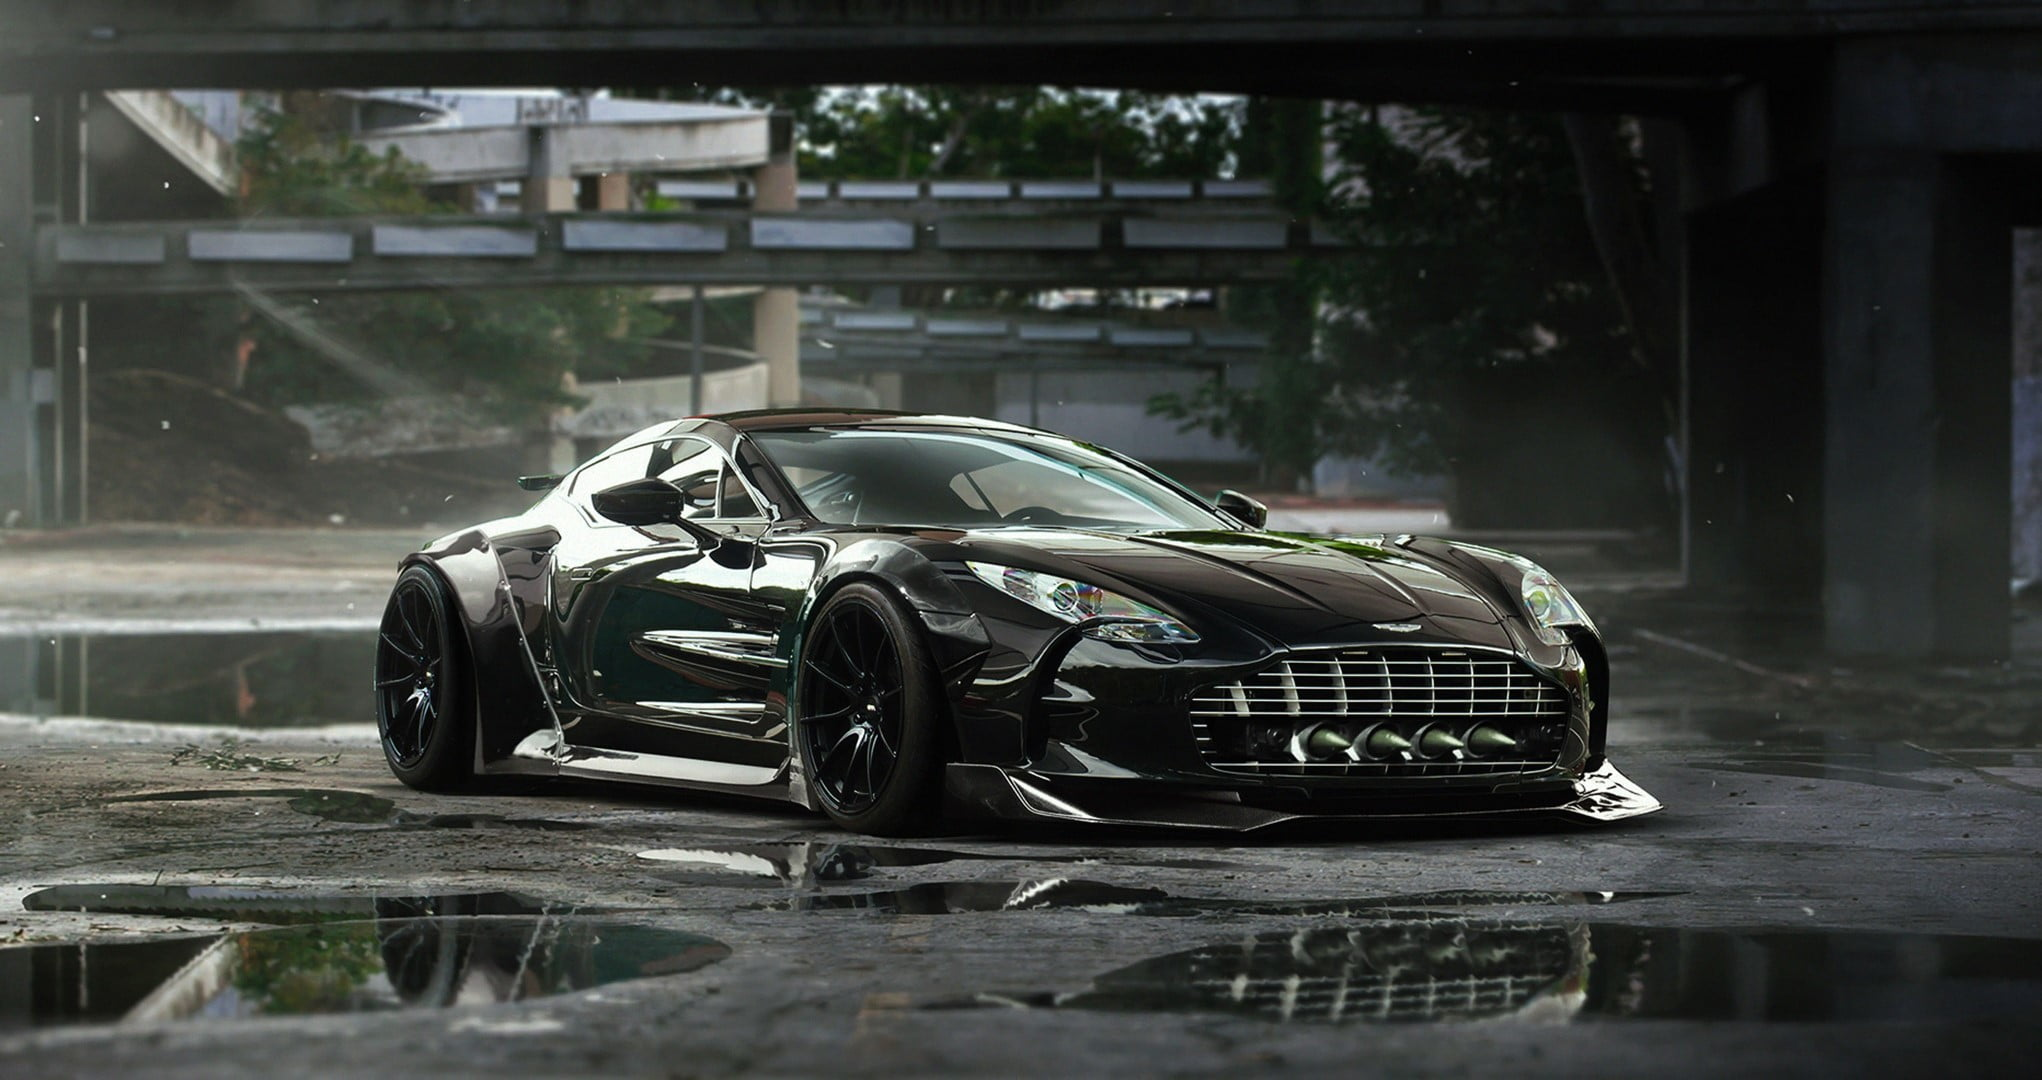
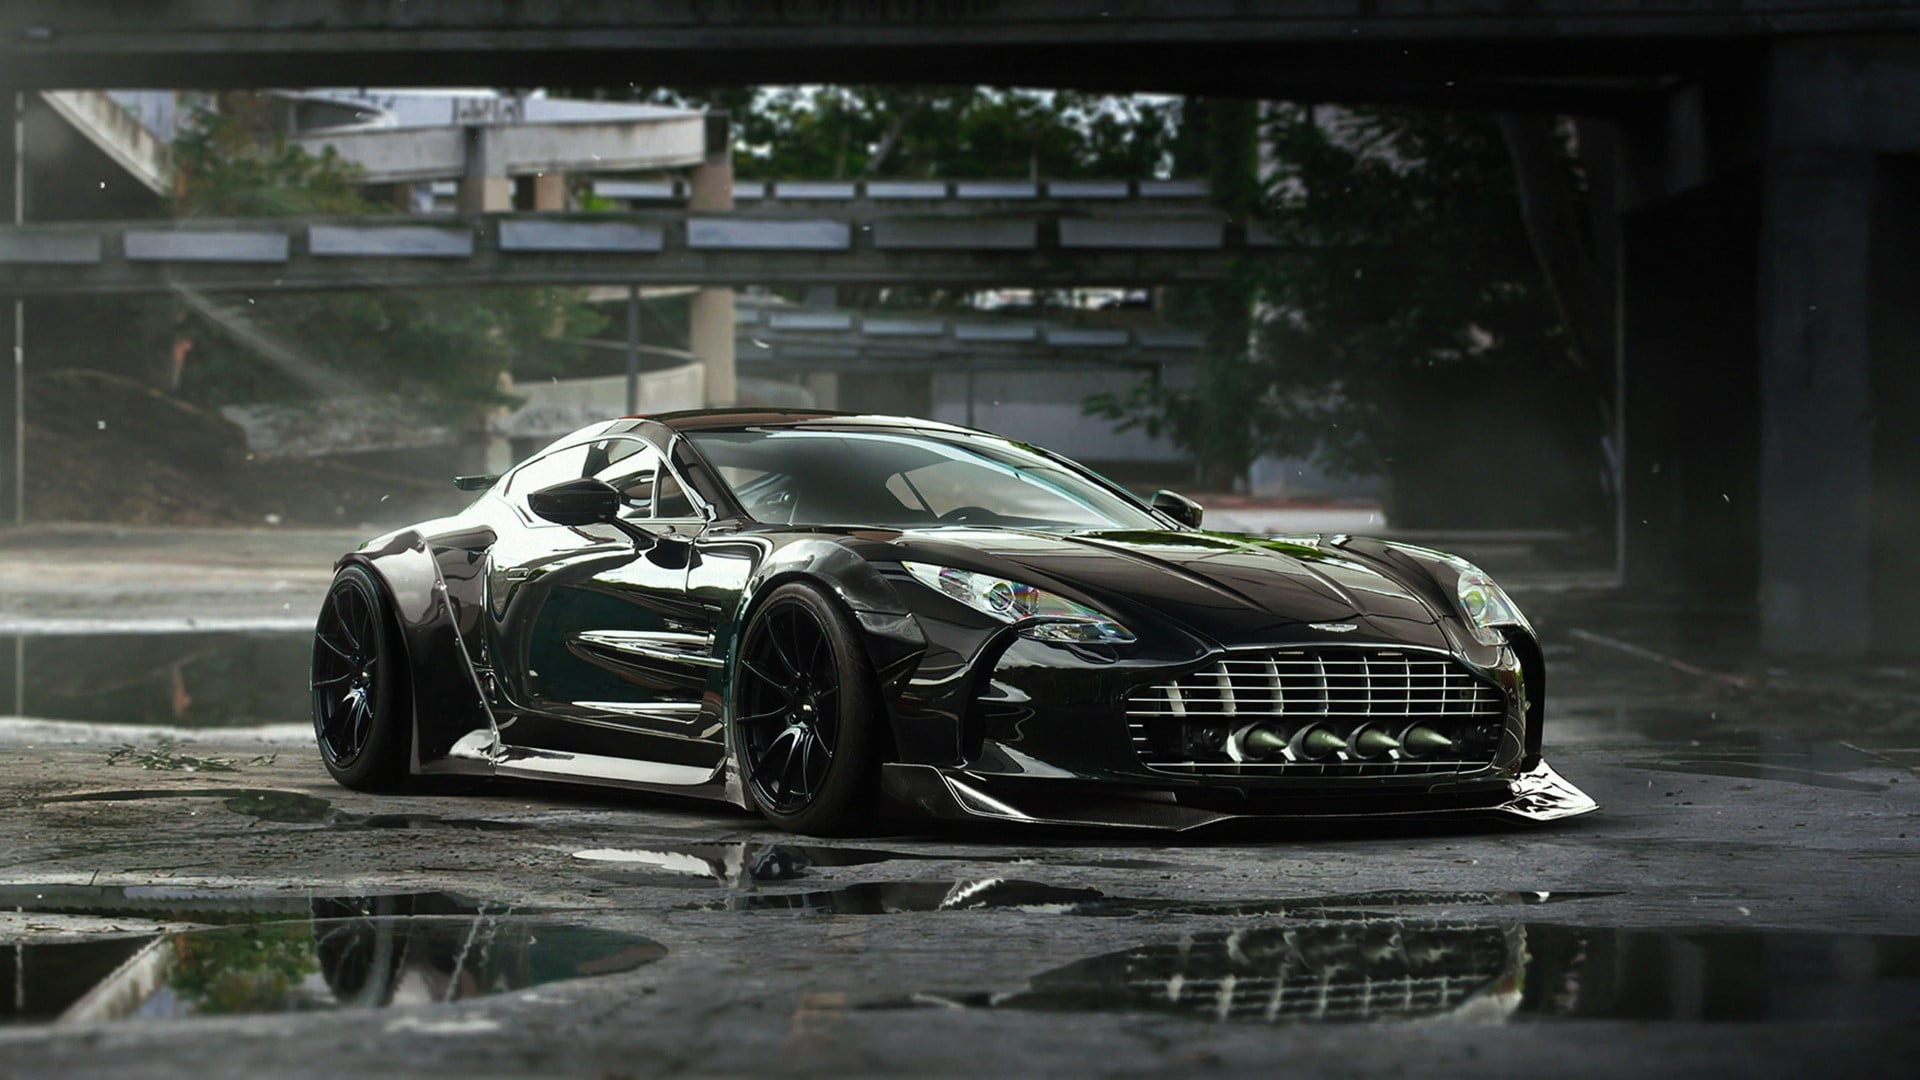
complete

diff --git a/index.html b/index.html
@@ -62,12 +62,14 @@
       </div>
     </nav>
     <div class="carousel w-full">
-      <div id="slide1" class="carousel-item relative w-full h-52 md:h-96 lg:h-160 xl:h-180 bg-cover bg-center bg-no-repeat"
+      <div id="slide1"
+        class="carousel-item relative w-full h-52 md:h-96 lg:h-160 xl:h-180 bg-cover bg-center bg-no-repeat"
         style="background-image: url(./images/wallpaperflare.com_wallpaper\ \(1\).jpg);">
         <div
           class="m-auto md:mt-6 md:ml-16 lg:mt-16 lg:ml-16 md:w-1/2 lg:w-1/2 h-full md:h-max bg-black bg-opacity-30 md:bg-white md:bg-opacity-25 md:rounded-2xl p-5">
           <h1 class="text-white md:text-base lg:text-2xl font-bold mb-4">Ferrari LaFerrari</h1>
-          <p class="text-white md:text-sm lg:text-xl font-bold">This dragon-like performance car accelerates from 0 to 60 mph in less than 3.0 seconds.</p>
+          <p class="text-white md:text-sm lg:text-xl font-bold">This dragon-like performance car accelerates from 0 to
+            60 mph in less than 3.0 seconds.</p>
           <button class="btn w-fit text-cPrimary text-xs md:text-base font-bold bg-transparent border-none p-0">Buy
             Now</button>
           <!-- <button class="md:mt-2 btn w-fit text-cPrimary md:text-white text-xs lg:text-xl font-bold bg-transparent md:bg-cPrimary border-none">Buy
@@ -79,7 +81,8 @@
           <a href="#slide2" class="hidden md:flex btn btn-circle opacity-70">❯</a>
         </div>
       </div>
-      <div id="slide2" class="carousel-item relative w-full h-52  md:h-96 lg:h-160 xl:h-180 bg-cover bg-center bg-no-repeat"
+      <div id="slide2"
+        class="carousel-item relative w-full h-52  md:h-96 lg:h-160 xl:h-180 bg-cover bg-center bg-no-repeat"
         style="background-image: url(./images/wallpaperflare.com_wallpaper\ \(2\).jpg);">
         <div
           class="m-auto md:mt-6 md:ml-16 lg:mt-16 lg:ml-16 md:w-1/2 lg:w-1/2 h-full md:h-max bg-black bg-opacity-30 md:rounded-2xl p-5">
@@ -87,8 +90,8 @@
           <p class="text-white md:text-sm lg:text-xl font-bold">You can buy a lot with $2 million — a really nice
             house, about 80
             Mazda MX-5’s, or this Swedish “megacar”.</p>
-            <button class="btn w-fit text-cPrimary text-xs md:text-base font-bold bg-transparent border-none p-0">Buy
-              Now</button>
+          <button class="btn w-fit text-cPrimary text-xs md:text-base font-bold bg-transparent border-none p-0">Buy
+            Now</button>
         </div>
         <!-- <img src="./images/wallpaperflare.com_wallpaper (2).jpg" class="w-full" /> -->
         <div class="absolute flex justify-between transform -translate-y-1/2 left-5 right-5 top-1/2">
@@ -96,16 +99,16 @@
           <a href="#slide3" class="hidden md:flex btn btn-circle opacity-70">❯</a>
         </div>
       </div>
-      <div id="slide3" class="carousel-item relative w-full h-52 md:h-96 lg:h-160 xl:h-180 bg-cover bg-center bg-no-repeat"
-        style="background-image: url(./images/wallpaperflare.com_wallpaper.jpg);">
+      <div id="slide3"
+        class="carousel-item relative w-full h-52 md:h-96 lg:h-160 xl:h-180 bg-cover bg-center bg-no-repeat"
+        style="background-image: url(./images/wallpaperflare.com_wallpaper\ \(5\).jpg);">
         <div
           class="m-auto md:mt-6 md:ml-16 lg:mt-16 lg:ml-16 md:w-1/2 lg:w-1/2 h-full md:h-max bg-black bg-opacity-30 md:bg-white md:bg-opacity-25 md:rounded-2xl p-5">
-          <h1 class="text-white md:text-base lg:text-2xl font-bold mb-4">Lamborghini Veneno</h1>
-          <p class="text-white md:text-sm lg:text-xl font-bold">The car is absolutely stunning from every angle, and
-            to this day,
-            we’re not convinced it isn’t an alien spacecraft.</p>
-            <button class="btn w-fit text-cPrimary text-xs md:text-base font-bold bg-transparent border-none p-0">Buy
-              Now</button>
+          <h1 class="text-white md:text-base lg:text-2xl font-bold mb-4">Aston Martin One-77</h1>
+          <p class="text-white md:text-sm lg:text-xl font-bold">Under the vented hood lurks a naturally aspirated V12
+            that displaces 7.3 liters, which is a lot. It produces 750 hp and 553 lb-ft.</p>
+          <button class="btn w-fit text-cPrimary text-xs md:text-base font-bold bg-transparent border-none p-0">Buy
+            Now</button>
         </div>
         <!-- <img src="./images/wallpaperflare.com_wallpaper (5).jpg" class="w-full" /> -->
         <div class="absolute flex justify-between transform -translate-y-1/2 left-5 right-5 top-1/2">
@@ -120,6 +123,201 @@
     <a href="#slide2" class="btn btn-xs bg-cSecondary text-white">2</a>
     <a href="#slide3" class="btn btn-xs bg-cSecondary text-white">3</a>
   </div>
+
+  <main>
+    <section class="mt-12 pl-6 pr-6 lg:pl-12 lg:pr-12">
+      <h1 class="text-center text-3xl font-bold mb-6">Latest <span class="text-cPrimary">News</span></h1>
+      <div class="flex flex-col md:flex-row gap-3">
+        <div class="card md:w-1/3 bg-base-100 shadow-xl">
+          <figure><img src="./images/IMG_20240120_130253.jpg" alt="Cars" /></figure>
+          <div class="card-body">
+            <h2 class="card-title">Mercedes Benz:<br>Vision AVTR</h2>
+            <p>The 2009 science fiction movie Avatar, which takes Dances With Wolves to another planet and dives in.</p>
+            <div class="card-actions justify-end">
+              <div class="badge badge-outline">Read More</div>
+            </div>
+          </div>
+        </div>
+        <div class="card md:w-1/3 bg-base-100 shadow-xl">
+          <figure><img src="./images/lambo_v12_049.jpg" alt="Cars" /></figure>
+          <div class="card-body">
+            <h2 class="card-title">Lamborghini V12:<br>Vision Gran Turismo</h2>
+            <p>Lambo V12 Vision Gran Turismo, the concept was designed exclusively for the racing game.</p>
+            <div class="card-actions justify-end">
+              <div class="badge badge-outline">Read More</div>
+            </div>
+          </div>
+        </div>
+        <div class="card md:w-1/3 bg-base-100 shadow-xl">
+          <figure><img src="./images/tour-roll-royces-forward-looking-concept-car-01.webp" alt="Cars" /></figure>
+          <div class="card-body">
+            <h2 class="card-title">Rolls Royce 103EX:<br>Vision Next 100</h2>
+            <p>Looking towards the next 100 years, each and every Rolls‑Royce will be a unique work of art.</p>
+            <div class="card-actions justify-end">
+              <div class="badge badge-outline">Read More</div>
+            </div>
+          </div>
+        </div>
+      </div>
+    </section>
+
+    <section class="mt-12 pl-6 pr-6 lg:pl-12 lg:pr-12">
+      <h1 class="text-center text-3xl font-bold mb-6">All About <span class="text-cPrimary">Speed</span> </h1>
+      <div class="flex flex-col md:flex-row gap-3">
+        <div class="card md:w-1/3 glass">
+          <figure class="h-[9.5rem] xl:h-52"><img src="./images/wallpaperflare.com_wallpaper.jpg" alt="car!" /></figure>
+          <div class="card-body">
+            <h2 class="card-title">Lamborghini Veneno</h2>
+            <p>The car is absolutely stunning from every angle, and to this day, we’re not convinced it isn’t an alien
+              spacecraft.</p>
+            <div class="card-actions justify-between items-center">
+              <h1 class="text-lime-600 text-2xl font-bold">$4.5M</h1>
+              <button class="btn btn-primary bg-cPrimary border-none text-white ">Buy Now</button>
+            </div>
+          </div>
+        </div>
+        <div class="card md:w-1/3 glass">
+          <figure class="h-[9.5rem] xl:h-52"><img src="./images/wallpaperflare.com_wallpaper (3).jpg" alt="car!" />
+          </figure>
+          <div class="card-body">
+            <h2 class="card-title">Mansory Vivere Bugatti Veyron</h2>
+            <p>The car is absolutely stunning from every angle, and to this day, we’re not convinced it isn’t an alien
+              spacecraft.</p>
+            <div class="card-actions justify-between items-center">
+              <h1 class="text-lime-600 text-2xl font-bold">$4.5M</h1>
+              <button class="btn btn-primary bg-cPrimary border-none text-white ">Buy Now</button>
+            </div>
+          </div>
+        </div>
+        <div class="card md:w-1/3 glass">
+          <figure class="h-[9.5rem] xl:h-52"><img src="./images/wallpaperflare.com_wallpaper (6).jpg" alt="car!" />
+          </figure>
+          <div class="card-body">
+            <h2 class="card-title">Pagani Huayra</h2>
+            <p>The Huayra is equally as famous for its odd-sounding name as it is for its face-melting performance.
+              Named after the Incan God of Winds.</p>
+            <div class="card-actions justify-between items-center">
+              <h1 class="text-lime-600 text-2xl font-bold">$1.4M</h1>
+              <button class="btn btn-primary bg-cPrimary border-none text-white ">Buy Now</button>
+            </div>
+          </div>
+        </div>
+      </div>
+    </section>
+
+    <section class="mt-12 pl-6 pr-6 lg:pl-12 lg:pr-12">
+      <h1 class="text-center text-3xl font-bold mb-6">Client <span class="text-cPrimary">Review</span></h1>
+      <div class="flex flex-col md:flex-row gap-3">
+        <div class="card md:w-1/3 bg-base-100 shadow-xl">
+          <figure class="px-10 pt-10">
+            <img src="./images/user-1.png" alt="user-1" class="rounded-full" />
+          </figure>
+          <div class="card-body items-center text-center">
+            <p>Lux Drive's site is a breeze to use, and their luxury car selection is fantastic. The buying process
+              was straightforward and made the whole experience enjoyable.</p>
+            <div class="rating">
+              <input type="radio" name="rating-2" class="mask mask-star-2 bg-orange-400" />
+              <input type="radio" name="rating-2" class="mask mask-star-2 bg-orange-400" />
+              <input type="radio" name="rating-2" class="mask mask-star-2 bg-orange-400" />
+              <input type="radio" name="rating-2" class="mask mask-star-2 bg-orange-400" />
+              <input type="radio" name="rating-2" class="mask mask-star-2 bg-orange-400" checked />
+            </div>
+            <p class="font-bold text-lime-600">Miles Moralas</p>
+          </div>
+        </div>
+        <div class="card md:w-1/3 bg-base-100 shadow-xl">
+          <figure class="px-10 pt-10">
+            <img src="./images/user-2.png" alt="user-2" class="rounded-full" />
+          </figure>
+          <div class="card-body items-center text-center">
+            <p>Lux Drive's website is so user-friendly, and the variety of luxury cars they offer is impressive. The
+              whole buying process was smooth, making it a delightful experience.</p>
+            <div class="rating">
+              <input type="radio" name="rating-2" class="mask mask-star-2 bg-orange-400" />
+              <input type="radio" name="rating-2" class="mask mask-star-2 bg-orange-400" />
+              <input type="radio" name="rating-2" class="mask mask-star-2 bg-orange-400" />
+              <input type="radio" name="rating-2" class="mask mask-star-2 bg-orange-400" checked />
+              <input type="radio" name="rating-2" class="mask mask-star-2 bg-orange-400" />
+            </div>
+            <p class="font-bold text-lime-600">Angelina Gomez</p>
+          </div>
+        </div>
+        <div class="card md:w-1/3 bg-base-100 shadow-xl">
+          <figure class="px-10 pt-10">
+            <img src="./images/user-3.png" alt="user-3" class="rounded-full" />
+          </figure>
+          <div class="card-body items-center text-center">
+            <p>Navigating Lux Drive's website is a joy, and the range of luxury cars is top-notch. Buying from them
+              was easy-peasy, adding a touch of luxury to the entire process.</p>
+            <div class="rating">
+              <input type="radio" name="rating-2" class="mask mask-star-2 bg-orange-400" />
+              <input type="radio" name="rating-2" class="mask mask-star-2 bg-orange-400" />
+              <input type="radio" name="rating-2" class="mask mask-star-2 bg-orange-400" />
+              <input type="radio" name="rating-2" class="mask mask-star-2 bg-orange-400" />
+              <input type="radio" name="rating-2" class="mask mask-star-2 bg-orange-400" checked />
+            </div>
+            <p class="font-bold text-lime-600">Regina Watson</p>
+          </div>
+        </div>
+      </div>
+    </section>
+
+    <section class="my-12 pl-6 pr-6 lg:pl-12 lg:pr-12">
+      <h1 class="text-center text-3xl font-bold mb-6">Frequently Asked<span class="text-cPrimary">Questions</span></h1>
+      <div class="flex flex-col md:flex-row gap-4 justify-center items-center">
+        <img class="w-3/4 md:w-1/3" src="./images/faq.png" alt="">
+        <div class="flex flex-col gap-3">
+          <div class="collapse collapse-arrow bg-base-200">
+            <input type="radio" name="my-accordion-2" checked="checked" />
+            <div class="collapse-title text-xl font-medium">
+              How do I browse cars on Lux Drive's website?
+            </div>
+            <div class="collapse-content">
+              <p>Simply visit our homepage, explore the diverse car categories, and refine your search using filters like brand, model, and price range for a tailored luxury car selection.</p>
+            </div>
+          </div>
+          <div class="collapse collapse-arrow bg-base-200">
+            <input type="radio" name="my-accordion-2" />
+            <div class="collapse-title text-xl font-medium">
+              What sets Lux Drive apart in terms of customer service?
+            </div>
+            <div class="collapse-content">
+              <p>At Lux Drive, we pride ourselves on personalized assistance. Our dedicated support team ensures a smooth and enjoyable experience, addressing any queries or concerns promptly.</p>
+            </div>
+          </div>
+          <div class="collapse collapse-arrow bg-base-200">
+            <input type="radio" name="my-accordion-2" />
+            <div class="collapse-title text-xl font-medium">
+              Can I schedule a test drive before making a purchase?
+            </div>
+            <div class="collapse-content">
+              <p>Absolutely! Lux Drive encourages test drives to ensure you feel confident in your choice. Use our online scheduling tool or contact our team to arrange a convenient time at your nearest dealership.</p>
+            </div>
+          </div>
+        </div>
+      </div>
+    </section>
+  </main>
+  <footer class="py-16 md:px-6 lg:px-12 bg-black flex flex-col md:flex-row justify-between items-center gap-4">
+      <div class="w-max text-sm text-white flex flex-col justify-center items-center md:justify-start md:items-start">
+        <ul class="mb-4 flex gap-4">
+          <li>Download Now</li>
+          <li>License</li>
+        </ul>
+        <ul class="mb-4 flex gap-4">
+          <li>About</li>
+          <li>Features</li>
+          <li>Help</li>
+          <li>Privacy Policy</li>
+        </ul>
+        <p>© 2024 lux drive. All rights reserved</p>
+      </div>
+      <div class="w-max text-sm text-white flex flex-col justify-center items-center md:justify-start md:items-start">
+        <p>Get the App</p>
+        <img class="h-8 rounded-base my-3" src="./images/android.png" alt="">
+        <img class="h-8 rounded-base" src="./images/ios.png" alt="">
+      </div>
+  </footer>
 </body>
 
 </html>
